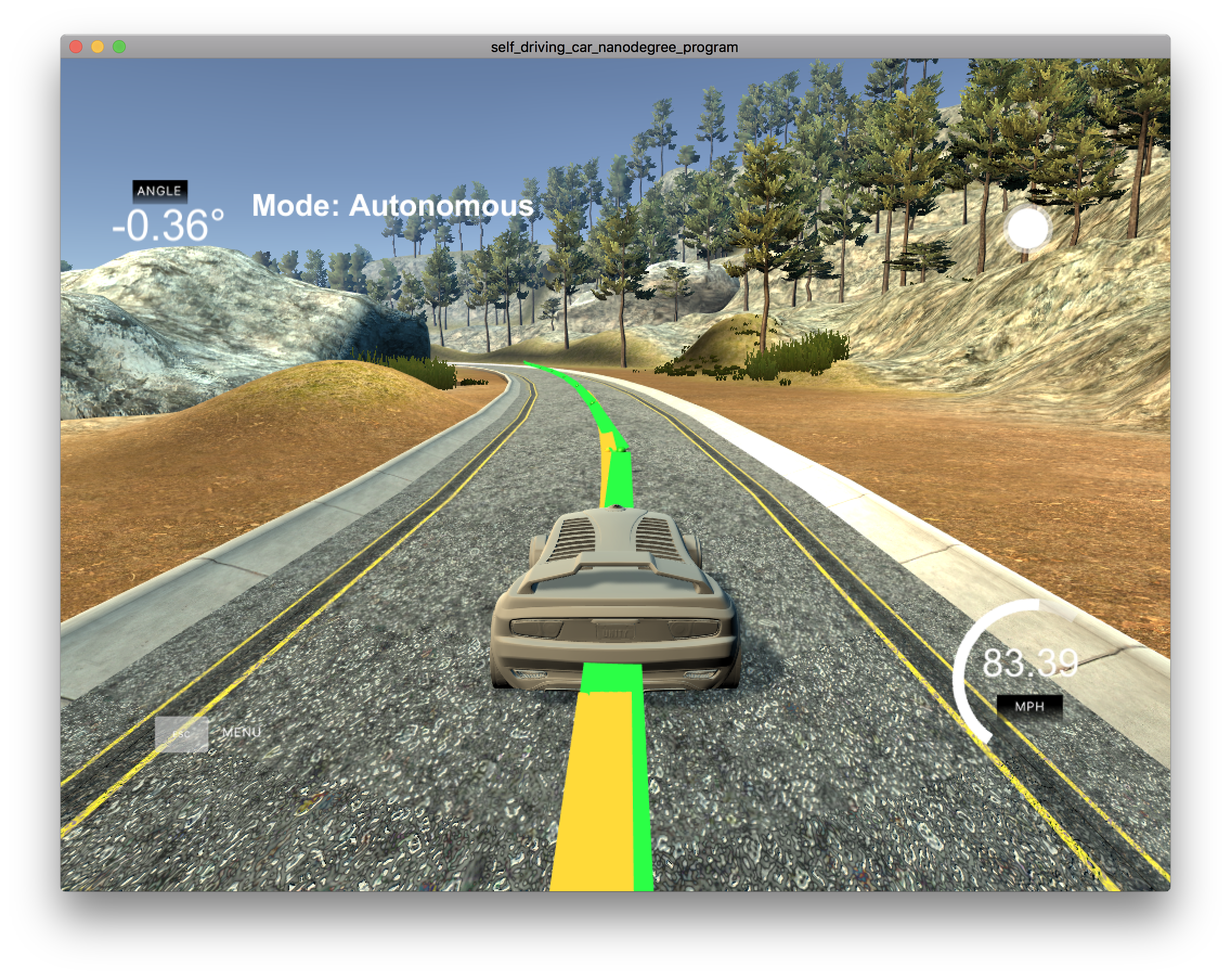
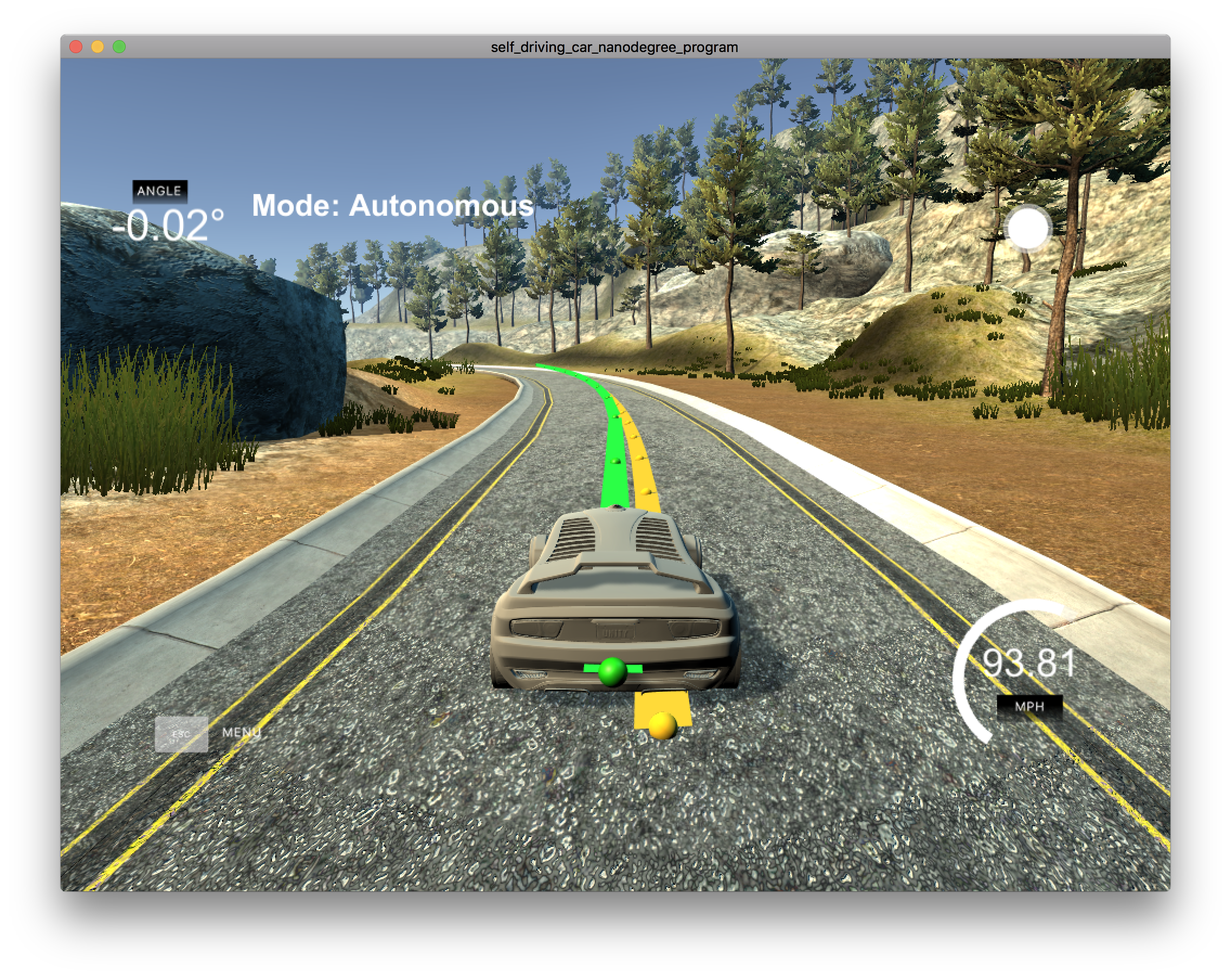
MPC reflection

diff --git a/README.md b/README.md
@@ -9,6 +9,70 @@ Self-Driving Car Engineer Nanodegree Program
 
 ![alt text][image1]
 
+#### The Model
+
+This car is using Kinematic Models, which are simplifications of dynamic models that ignore tire forces, gravity, and mass. This simplification reduces the accuracy of the models, but it also makes them more tractable. At low and moderate speeds, kinematic models often approximate the actual vehicle dynamics.
+
+The model has following states and actuators:
+
+* States: x(x\_position), y(y\_position), psi(orientation), v(velocity)
+* Actuators: deltaPsi(steering), a(acceleration)
+
+The update equations for this model are:
+
+```      
+      x[1 + t] = x[t] + v[t] * cos(psi[t]) * dt);
+      y[1 + t] = y[t] + (y[t] + v[t] * sin(psi[t]) * dt);
+      psi[1 + t] = psi[t] + v[t] * delta[t] / Lf * dt);
+      v[1 + t] = v[t] + a[t] * dt;
+      cte[1 + t] = cte[t] - y[t] + v[t] * sin(epsi[t]) * dt;
+      epsi[1 + t] = epsi[t] - psides[t] + v[t] * delta[t] / Lf * dt);
+```
+
+#### Timestep Length and Elapsed Duration (N & dt)
+
+In the end, I set the timestep N=11 and dt=0.125s. The car can successfully drive a lap around the track with max speed 94 MPH as shown in the above picture.  
+
+I also tried with other parameters for N and dt: 
+
+* When fixed with dt=0.125s, if I set N=20, the car failed to stay on the track at high speed even with slightly turn. If I set N=5, the car always oscillate on the road and cannot drive in a stable state.
+* When fixed with N=11, if I set dt=0.1s, the car still oscillates on the road and cannot deal with Latency very well. If I set dt=0.2s or large, the car can drive safely but it is too conservative and cannot reach high speed. 
+
+#### Polynomial Fitting and MPC Preprocessing
+
+I am using 2nd order polynomial fit. The waypoints are first converted to vehicle space parametes and then fit to the path. The x position, y position and car orientation are set to 0 for the initial state and these are fed into the MPC solve function.
+
+MPC prodict the N states and N-1 actuaors with a cost function as follows:
+
+	// The part of the cost based on the reference state.
+    for (int t = 0; t < N; t++) {
+      fg[0] += 2000 * CppAD::pow(vars[cte_start + t] , 2);
+      fg[0] += 1000 * CppAD::pow(vars[epsi_start + t], 2);
+      fg[0] += CppAD::pow(vars[v_start + t] - ref_v, 2);
+    }
+    
+    // Minimize the use of actuators.
+    for (int t = 0; t < N - 1; t++) {
+      fg[0] += 100 * CppAD::pow(vars[deltaPsi_start + t], 2);
+      fg[0] += CppAD::pow(vars[a_start + t], 2);
+    }
+    
+    // Minimize the value gap between sequential actuations.
+    for (int t = 0; t < N - 2; t++) {
+      fg[0] += CppAD::pow(vars[deltaPsi_start + t + 1] - vars[deltaPsi_start + t], 2);
+      fg[0] += CppAD::pow(vars[a_start + t + 1] - vars[a_start + t], 2);
+    }
+  
+* To smooth driving, I added weights(2000 and 1000)for cte and epsi. 
+* To minimize the steering, I add weight(100) for deltaPsi. 
+
+#### Model Predictive Control with Latency
+
+0.1 second latency in introduced into this system in order to simulate real-life environment. To compensate this error, first I used the weights to smooth steering actuator and increased the penalty of cost to use steering, second I tried to adjust N and dt so that it can predict more on the road. Both of them can help to drive the car more conservatively and finally the car can drive through the entire track successfully. 
+
+
+    
+
 ## Dependencies
 
 * cmake >= 3.5
